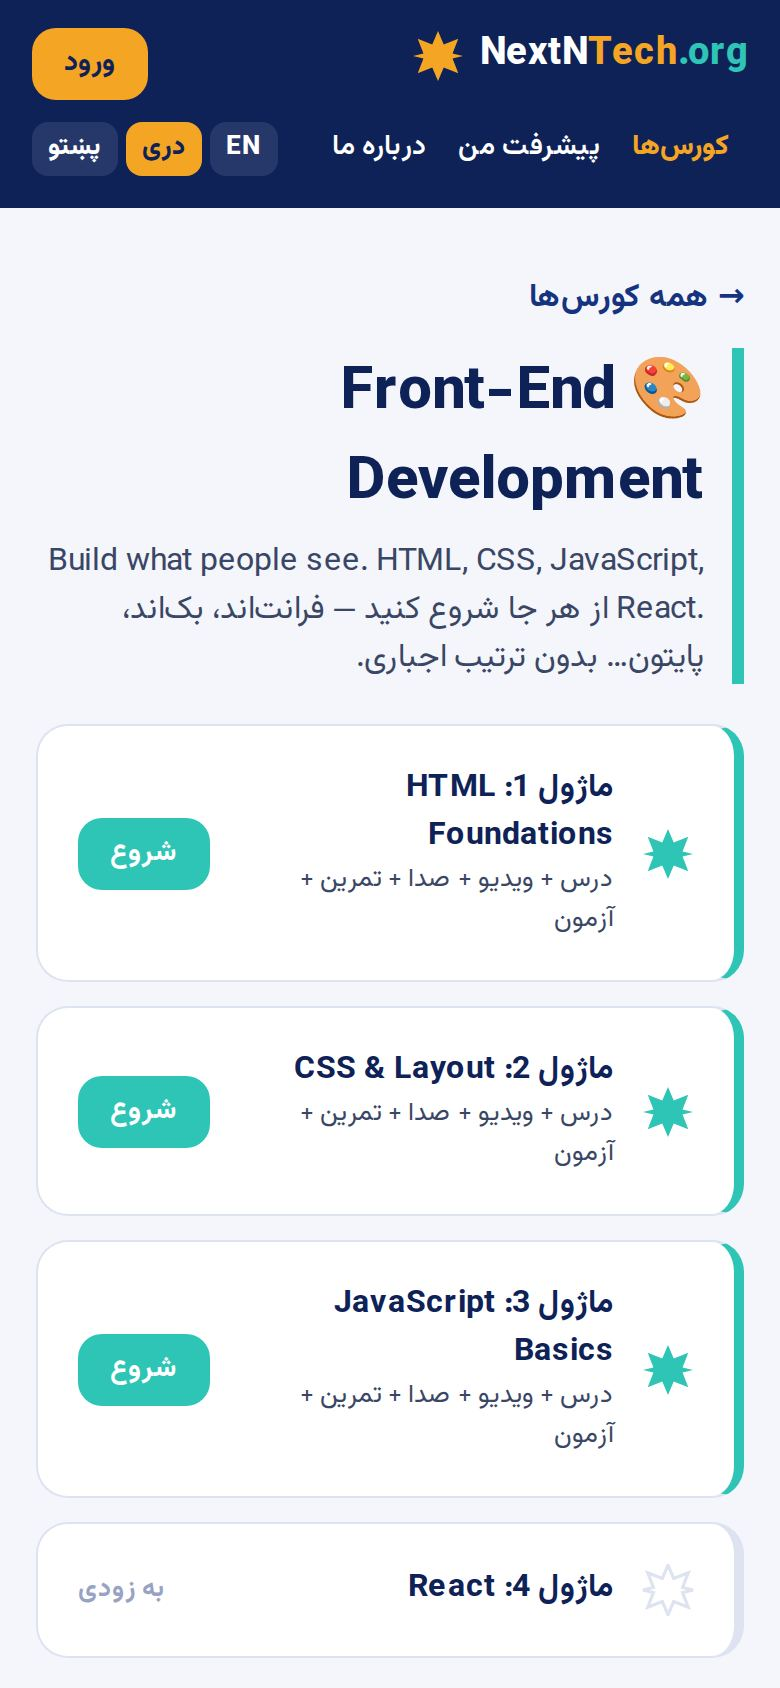
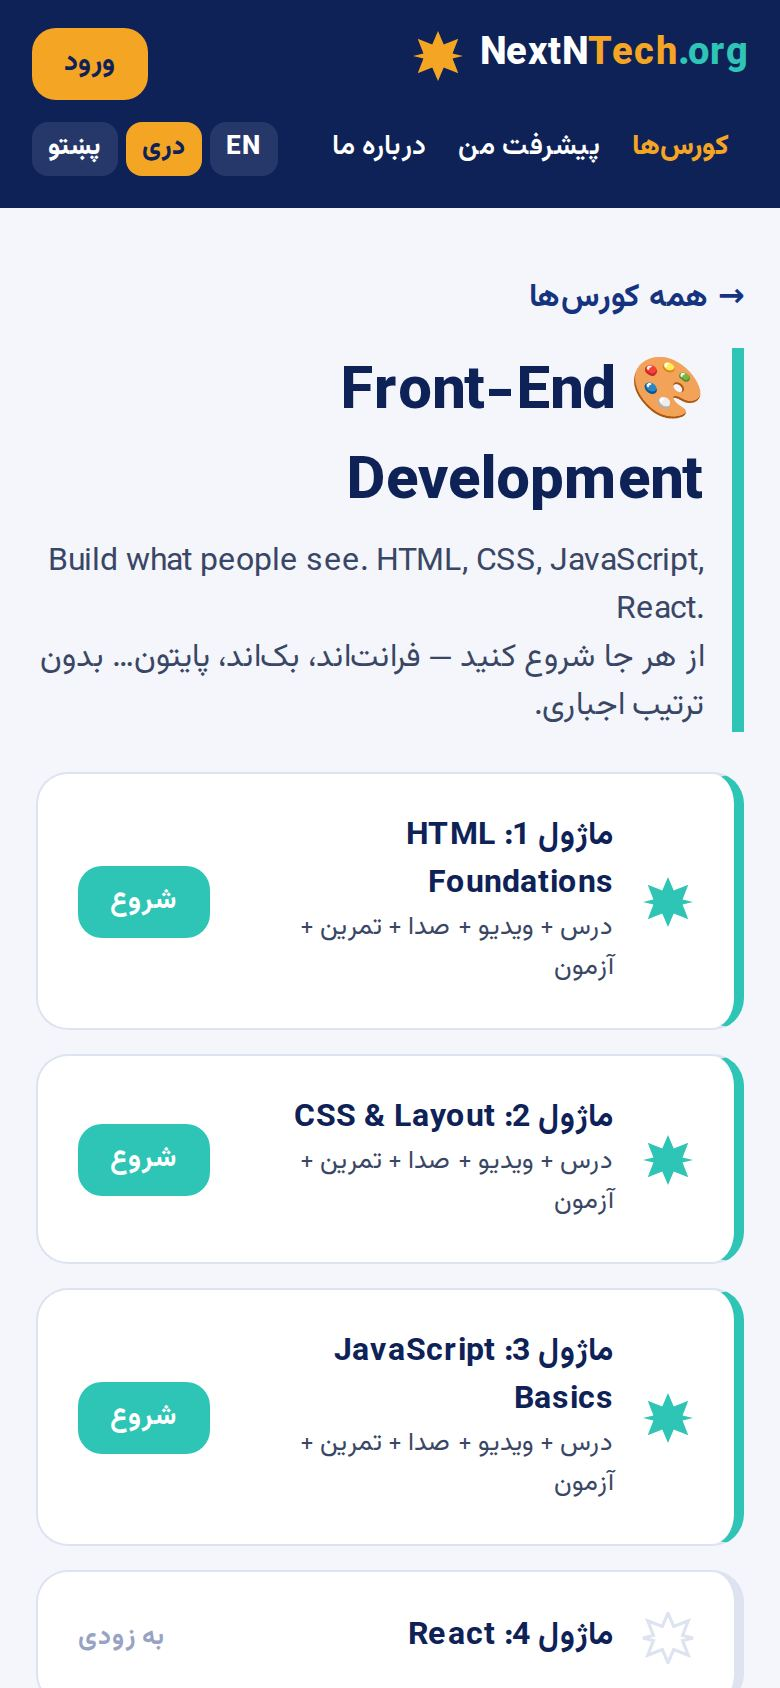
Fix English course text on Dari/Pashto pages: render whole-English elements as LTR blocks
Wrapped English inside an RTL paragraph (via <bdi>) put the final period at the start
of the next line (".React"). <En as="p"> now makes the element itself left-to-right
and right-aligned on RTL pages. Screenshots retaken; docs updated.

Claude-Session: https://claude.ai/code/session_01LCxaChGNZLHzSuRqcjC2TS

diff --git a/components/ui/En.tsx b/components/ui/En.tsx
@@ -1,12 +1,31 @@
-import type { ReactNode } from "react";
+import type { ElementType, ReactNode } from "react";
+import { cn } from "./cn";
+
+type Props = {
+  children: ReactNode;
+  /** Render as a block element (e.g. "p", "h1") when the whole element is English. */
+  as?: ElementType;
+  className?: string;
+};
 
 /**
  * English content (from the database) shown inside a possibly-RTL page.
- * <bdi> isolates its direction so punctuation stays correct in Dari/Pashto.
+ *
+ * - Inline (default): <bdi dir="ltr"> isolates a short English run inside Dari/Pashto text.
+ * - Block (`as="p"` etc.): the element itself becomes left-to-right, so long English text
+ *   wraps with correct punctuation, and stays aligned with the RTL page (`rtl:text-end`).
  */
-export function En({ children }: { children: ReactNode }) {
+export function En({ children, as, className }: Props) {
+  if (as) {
+    const Tag = as;
+    return (
+      <Tag lang="en" dir="ltr" className={cn("rtl:text-end", className)}>
+        {children}
+      </Tag>
+    );
+  }
   return (
-    <bdi lang="en" dir="ltr">
+    <bdi lang="en" dir="ltr" className={className}>
       {children}
     </bdi>
   );

diff --git a/app/[locale]/courses/page.tsx b/app/[locale]/courses/page.tsx
@@ -31,12 +31,12 @@ export default async function CoursesPage({ params }: Props) {
                 {c.emoji}
               </div>
               <div className="min-w-[200px] flex-1">
-                <h2 className="text-lg font-extrabold text-ink">
-                  <En>{c.title}</En>
-                </h2>
-                <p className="mt-1 text-sm">
-                  <En>{c.modules.map((m) => m.title).join(" · ")}</En>
-                </p>
+                <En as="h2" className="text-lg font-extrabold text-ink">
+                  {c.title}
+                </En>
+                <En as="p" className="mt-1 text-sm">
+                  {c.modules.map((m) => m.title).join(" · ")}
+                </En>
               </div>
               <span className="inline-flex items-center rounded-xl bg-course px-4 py-2.5 text-[15px] font-bold text-white">
                 {t("start")}

diff --git a/app/[locale]/page.tsx b/app/[locale]/page.tsx
@@ -66,12 +66,12 @@ export default async function HomePage({ params }: { params: Promise<{ locale: L
               <div className="text-3xl" aria-hidden="true">
                 {c.emoji}
               </div>
-              <h3 className="mt-2 mb-1.5 text-lg font-extrabold text-ink">
-                <En>{c.title}</En>
-              </h3>
-              <p className="mb-2.5 text-sm leading-normal">
-                <En>{c.summary}</En>
-              </p>
+              <En as="h3" className="mt-2 mb-1.5 text-lg font-extrabold text-ink">
+                {c.title}
+              </En>
+              <En as="p" className="mb-2.5 text-sm leading-normal">
+                {c.summary}
+              </En>
               <span
                 className="text-[13px] font-bold text-course"
                 style={{ "--course": c.color } as CSSProperties}

diff --git a/app/[locale]/courses/[courseSlug]/[lessonSlug]/page.tsx b/app/[locale]/courses/[courseSlug]/[lessonSlug]/page.tsx
@@ -44,9 +44,9 @@ export default async function LessonPage({ params }: Props) {
       <div className="text-[13px] font-extrabold tracking-wider text-course">
         {t("eyebrow", { n: lesson.module.order + 1 })} · <En>{lesson.module.title.toUpperCase()}</En>
       </div>
-      <h1 className="mt-1.5 mb-3.5 text-[28px] font-extrabold text-ink">
-        <En>{lesson.title}</En>
-      </h1>
+      <En as="h1" className="mt-1.5 mb-3.5 text-[28px] font-extrabold text-ink">
+        {lesson.title}
+      </En>
 
       {locale !== "en" && (
         <div className="mb-3 rounded-[10px] border border-saffron bg-cream px-3.5 py-2.5 text-[13px]">

diff --git a/app/[locale]/courses/[courseSlug]/page.tsx b/app/[locale]/courses/[courseSlug]/page.tsx
@@ -44,9 +44,8 @@ export default async function CoursePage({ params }: Props) {
         <h1 className="mb-1.5 text-[30px] font-extrabold text-ink">
           <span aria-hidden="true">{course.emoji}</span> <En>{course.title}</En>
         </h1>
-        <p>
-          <En>{course.summary}</En> {t("anywhereNote")}
-        </p>
+        <En as="p">{course.summary}</En>
+        <p>{t("anywhereNote")}</p>
       </div>
 
       <ol className="mt-5 grid gap-3">

diff --git a/README.md b/README.md
@@ -424,7 +424,8 @@ buttons and stars (`bg-course`, `text-course`, `border-course`, `bg-course-tint`
 **Layout rules:** mobile-first (works at 375px, no sideways scroll); rounded corners
 12–16px; logical CSS properties only (`ms-`/`me-`, `ps-`/`pe-`, `start-`/`end-`,
 `border-s-`, `text-start`) so RTL mirrors automatically; code always LTR; English
-database text wrapped in `<En>` (`<bdi dir="ltr">`) inside RTL pages.
+database text uses `<En as="p">` (a left-to-right block, right-aligned on RTL pages) or
+inline `<En>` (`<bdi dir="ltr">`) for short phrases.
 
 | Page         | Sections                                                                                                                                                                      |
 | ------------ | ----------------------------------------------------------------------------------------------------------------------------------------------------------------------------- |
@@ -584,12 +585,12 @@ More hosting fixes: [docs/DEPLOYMENT.md](docs/DEPLOYMENT.md#troubleshooting).
 
 Newest first.
 
-| Date       | Change                                                                                                                                                                                                                                                                                                    | PR                                                                                                       |
-| ---------- | --------------------------------------------------------------------------------------------------------------------------------------------------------------------------------------------------------------------------------------------------------------------------------------------------------- | -------------------------------------------------------------------------------------------------------- |
-| 2026-09-29 | Adopted the shared AI workflow: `CLAUDE.md` project facts + `docs/AI-WORKFLOW-PROMPT.md`, GitHub Actions CI, `server.js` for cPanel Passenger, `.env.example` with empty values, README in the standard structure with screenshots, and a fix so English course names read correctly on Dari/Pashto pages | (this change)                                                                                            |
-| 2026-09-28 | Hosting guide for cPanel AI App Hosting + PostgreSQL, and a GitHub Codespaces preview setup                                                                                                                                                                                                               | [#3](https://github.com/PDostiyar/NextNtech/pull/3), [#4](https://github.com/PDostiyar/NextNtech/pull/4) |
-| 2026-09-28 | `stage` → `main` branching, README, CONTRIBUTING, Code of Conduct, Security policy, issue/PR templates                                                                                                                                                                                                    | [#1](https://github.com/PDostiyar/NextNtech/pull/1), [#2](https://github.com/PDostiyar/NextNtech/pull/2) |
-| 2026-09-28 | Phase 1: Next.js app, design system, English/Dari/Pashto with RTL, database schema, 6 courses / 24 modules / 14 lessons, Home, Courses, Course, Lesson and About pages                                                                                                                                    | [#1](https://github.com/PDostiyar/NextNtech/pull/1)                                                      |
+| Date       | Change                                                                                                                                                                                                                                                                                                                  | PR                                                                                                       |
+| ---------- | ----------------------------------------------------------------------------------------------------------------------------------------------------------------------------------------------------------------------------------------------------------------------------------------------------------------------- | -------------------------------------------------------------------------------------------------------- |
+| 2026-09-29 | Adopted the shared AI workflow: `CLAUDE.md` project facts + `docs/AI-WORKFLOW-PROMPT.md`, GitHub Actions CI, `server.js` for cPanel Passenger, `.env.example` with empty values, README in the standard structure with screenshots, and a fix so English course names and summaries read correctly on Dari/Pashto pages | (this change)                                                                                            |
+| 2026-09-28 | Hosting guide for cPanel AI App Hosting + PostgreSQL, and a GitHub Codespaces preview setup                                                                                                                                                                                                                             | [#3](https://github.com/PDostiyar/NextNtech/pull/3), [#4](https://github.com/PDostiyar/NextNtech/pull/4) |
+| 2026-09-28 | `stage` → `main` branching, README, CONTRIBUTING, Code of Conduct, Security policy, issue/PR templates                                                                                                                                                                                                                  | [#1](https://github.com/PDostiyar/NextNtech/pull/1), [#2](https://github.com/PDostiyar/NextNtech/pull/2) |
+| 2026-09-28 | Phase 1: Next.js app, design system, English/Dari/Pashto with RTL, database schema, 6 courses / 24 modules / 14 lessons, Home, Courses, Course, Lesson and About pages                                                                                                                                                  | [#1](https://github.com/PDostiyar/NextNtech/pull/1)                                                      |
 
 ---
 

diff --git a/CONTRIBUTING.md b/CONTRIBUTING.md
@@ -256,8 +256,9 @@ match its look and feel.
   `bg-course-tint` (8%) and `bg-course-tint-strong` (13%).
 - **Right-to-left:** always use logical classes — `ms-`/`me-`, `ps-`/`pe-`,
   `start-`/`end-`, `border-s-`, `text-start` — **never** `ml-`, `mr-`, `left-`, `right-`
-  or `text-left`. Wrap English text from the database in `<En>` so punctuation stays
-  correct on Dari/Pashto pages.
+  or `text-left`. Wrap English text from the database in `<En>` so it reads correctly on
+  Dari/Pashto pages: use `<En as="p">…</En>` (or `h1`, `h2`…) when the whole element is
+  English, and plain `<En>` only for a short English phrase inside translated text.
 - **Mobile first:** everything must work at 375px width with no sideways scrolling.
 - Rounded corners 12–16px, generous padding, friendly tone.
 
